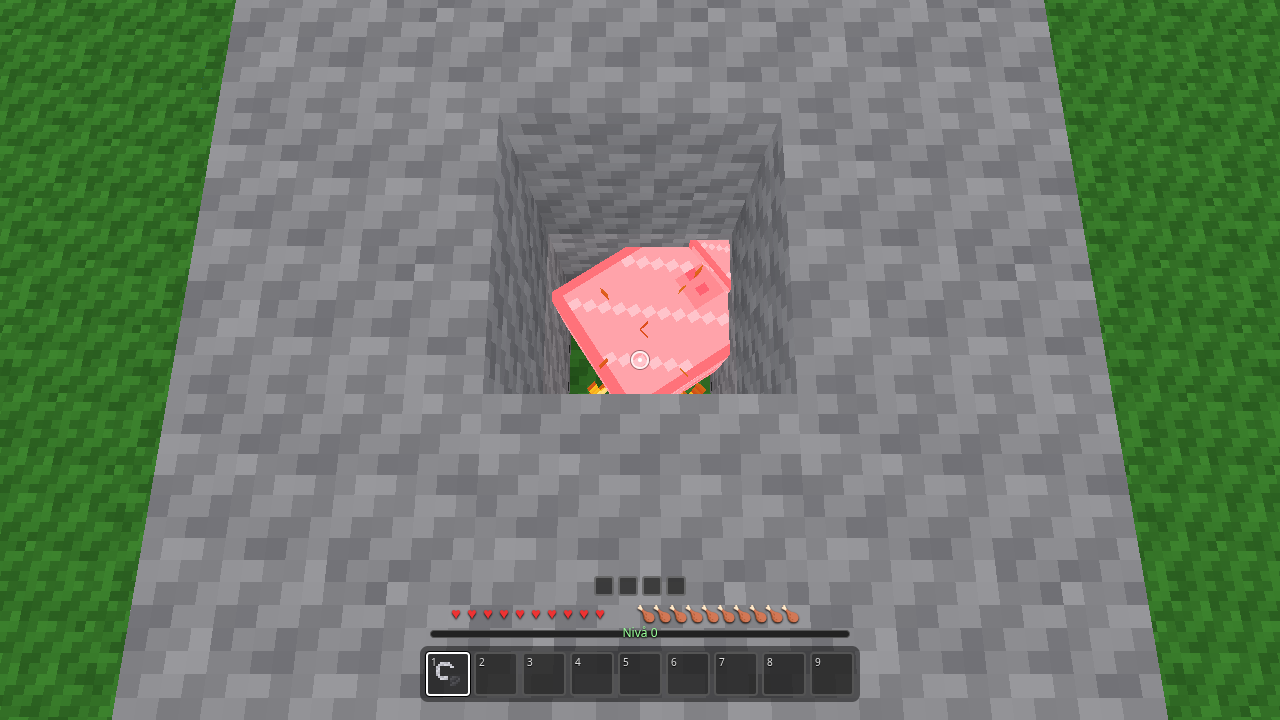
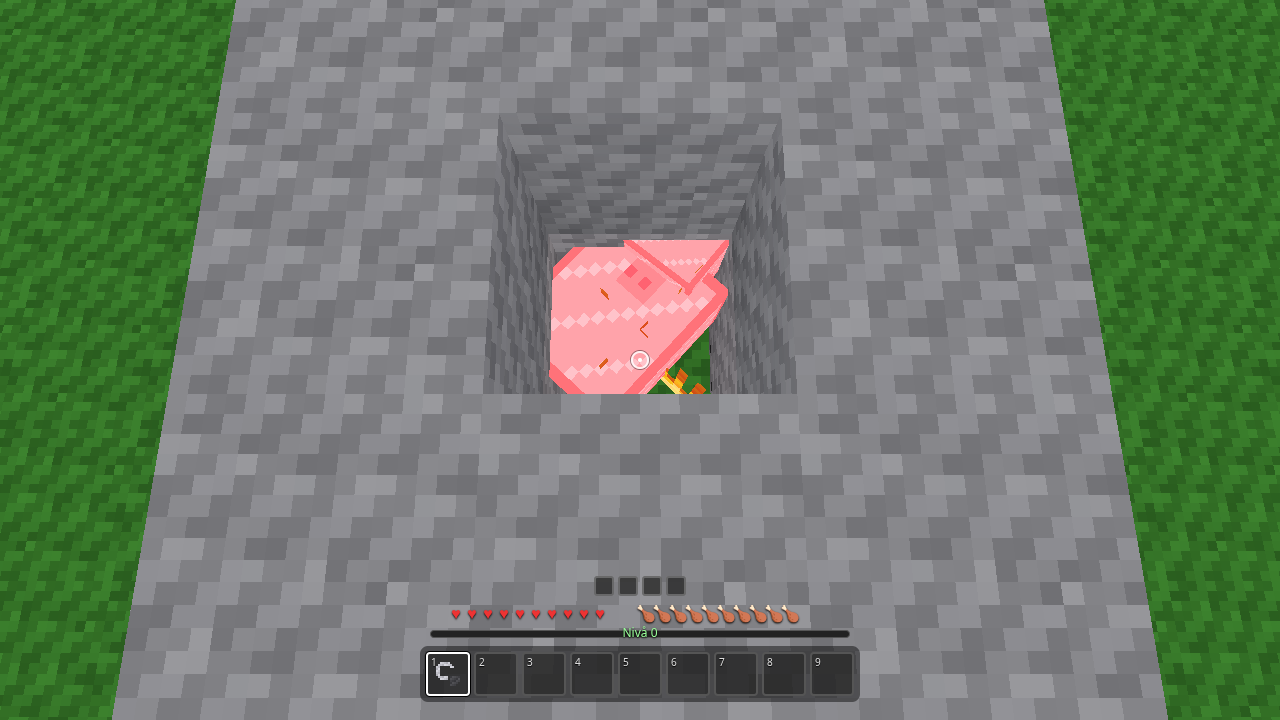
it20: final docs; final runs core 56/56, it20 7/7, it19 8/8, it18 8/8, it18-explore 11/11, it17 13/13, it16 6/6, vitest 137

Changed region(s): [[0.4062, 0.3361, 0.5938, 0.55]]

diff --git a/docs/ITERATIONS.md b/docs/ITERATIONS.md
@@ -4,7 +4,7 @@ Original voxel-sandkasse. Ingen Mojang-assets.
 
 ## Iterasjon 20 (2026-10-31)
 
-Start: lør. 31. okt. 03:55 CET · Slutt: lør. 31. okt. 04:31 CET (~36 min) · gren `dev` (ikke publisert)
+Start: lør. 31. okt. 03:55 CET · Slutt: lør. 31. okt. 04:44 CET (~49 min) · gren `dev` (ikke publisert)
 
 ### Fokus
 Baseline først (core 56/56 med ekte tastatur/mus i Chromium), deretter åpne punkter fra it19-listen: lys over chunk-grenser, merkeboks for dør, og ild som ikke reagerte på regn, lava eller mobber. `__bv` bare til oppsett.
@@ -14,6 +14,7 @@ Baseline først (core 56/56 med ekte tastatur/mus i Chromium), deretter åpne pu
 2. Merkeboksen (den svarte rammen) var alltid en hel kube. Nå følger den formen på blokka som i MC: dør = tynt panel som er 2 høyt, helle = halv, blomster, gress, spirer og avlinger = mindre bokser
 3. Regn var små prikker, og himmelen var like blå og lys. Nå faller regnet som streker, himmelen blir grå og himmellyset dempes (~35 %, torden ~50 %), og overgangen tar ca. 3 s
 4. Mobber gikk like fort i lava som på land. Nå går de mye saktere i lava (×0,3), som i MC
+5. Fakler ble tegnet som en gjennomsiktig hel kube med fakkelbildet på alle sider. Sett ovenfra/skrått så det ut som to fakler (oppdaget i BL1-skjermbildet). Nå er fakkelen en tynn pinne (2/16 bred, 12/16 høy) med flamme på toppen, som i MC, og rammen rundt den er like smal
 
 ### Nye funksjoner (3)
 - Regn slukker ild: ild under åpen himmel slukkes i løpet av ~1–2 s med hvesing og røyk. Ild under tak og evig ild på helstein brenner videre
@@ -24,19 +25,18 @@ Baseline først (core 56/56 med ekte tastatur/mus i Chromium), deretter åpne pu
 - Core: **56 PASS / 0 FAIL / 0 PARTIAL** (`scripts/core-playtest.ts`, endelig bygg; H2 trenger fortsatt ett nytt forsøk i headless, som før)
 - it20-verify: **7/7 PASS** (`scripts/it20-verify.ts`: R1 regn slukker ild tent med fyrstål (tak-ild brenner videre), LV1 lava tenner treverk, MF1 gris i inngjerding, ild tent med høyreklikk → dør → stekt kjøtt, ML1 zombie i lava dør, OL1 dør- og blomsterramme, RW1 regn gjør himmelen mørkere, BL1 fakkel 3 blokker fra chunk-grensen lyser på andre siden)
 - Regresjon: it19-verify 8/8, it18-verify 8/8, it18-explore 11/11, it17-verify 13/13, it16-verify 6/6 (alle kjørt én og én på endelig bygg). it19-verify er justert: været settes til klart før ild-testene, siden regn nå slukker ild. NL1 fjerner rester av ild og portal først, fordi lyset deres nå (riktig) når over chunk-grensen og lyste opp ruta før fakkelen ble satt
-- 136 vitest grønne (nye: regn/ild, lava tenner, mob-brenning, rammeform, lys over chunk-grenser i begge rekkefølger og uten spøkelseslys)
+- 137 vitest grønne (nye: fakkelmodell, regn/ild, lava tenner, mob-brenning, rammeform, lys over chunk-grenser i begge rekkefølger og uten spøkelseslys)
 - Ny seksjon R i CORE-PLAYTEST.md
 
 ### Kjente begrensninger
 - Regnstreker faller også inne under tak (bare grafikk, ild under tak slukkes ikke), og det er ingen regnlyd på taket eller pytter
 - Mobber går fortsatt rett inn i ild og lava (de unngår dem ikke når de finner vei)
-- Merkeboksen rundt stige og fakkel er fortsatt en hel blokk
+- Merkeboksen rundt stige er fortsatt en hel blokk
 - Sand og grus faller fortsatt umiddelbart, og det finnes ikke dobbelt høyt gress
-- Fakler tegnes som en gjennomsiktig hel kube med fakkel-teksturen på hver side. Sett ovenfra/skrått ser det derfor ut som to fakler (for- og baksida), se it20-10. I MC er fakkelen en tynn pinne. Bør fikses neste runde (mesher + test)
 - Parallellkjøring av flere Chrome-tester gir tidsfeil (FS3, L1, D1, X11). Sluttkjøringene gjøres derfor én og én
 
 ### Media
-public/progress/it20/ (lokalt på `dev`, ikke publisert): skjermbilder it20-01…11 (ild i regn, slukket i regn mens tak-ilden brenner, lava tenner en vegg, gris brenner/stekt kjøtt, zombie i lava, dør- og blomsterramme, fakkel ved chunk-grensen, klart vs regn), klipp `clip-it20-regn-lava-mobber.webm`
+public/progress/it20/ (lokalt på `dev`, ikke publisert): skjermbilder it20-01…11 (tynn fakkel i it20-10, ild i regn, slukket i regn mens tak-ilden brenner, lava tenner en vegg, gris brenner/stekt kjøtt, zombie i lava, dør- og blomsterramme, fakkel ved chunk-grensen, klart vs regn), klipp `clip-it20-regn-lava-mobber.webm`
 
 ---
 

diff --git a/docs/CORE-PLAYTEST.md b/docs/CORE-PLAYTEST.md
@@ -193,6 +193,7 @@ Last run: 2026-10-31 02:26–02:35 CET · it18 core (56 PASS / 0 FAIL) + scripts
 | R2 | Lava lights things | Lava sets fire to flammable blocks near/above it (wooden wall next to a lava pool catches fire); lava among stone never makes fire | PASS | LV1 + vitest |
 | R3 | Mobs burn | Mobs in fire/lava take damage (fire 1 / 0.5 s, lava 4 / 0.5 s), keep burning afterwards (glow), water puts them out; lava slows them; animals that die burning drop cooked meat | PASS | MF1 (pig, fire lit by RMB), ML1 (zombie in lava) + vitest |
 | R4 | Outline shape | Selection outline follows the block: door = thin 2-tall panel, slab = half, flowers/grass/saplings/crops = smaller boxes | PASS | OL1 screenshots + vitest (was: always a full cube) |
+| R6 | Torch model | A torch is a thin stick with a flame (one torch from every angle) | PASS | BL1 screenshot + vitest (was: see-through cube with the torch picture on each face, looked like two torches) |
 | R5 | Light across chunk borders | A torch a few blocks from a chunk border lights the ground on the other side (also diagonal chunks); removing it leaves no ghost light | PASS | BL1 + vitest (was: block light stopped at the chunk border) |
 
 ## Method rules
